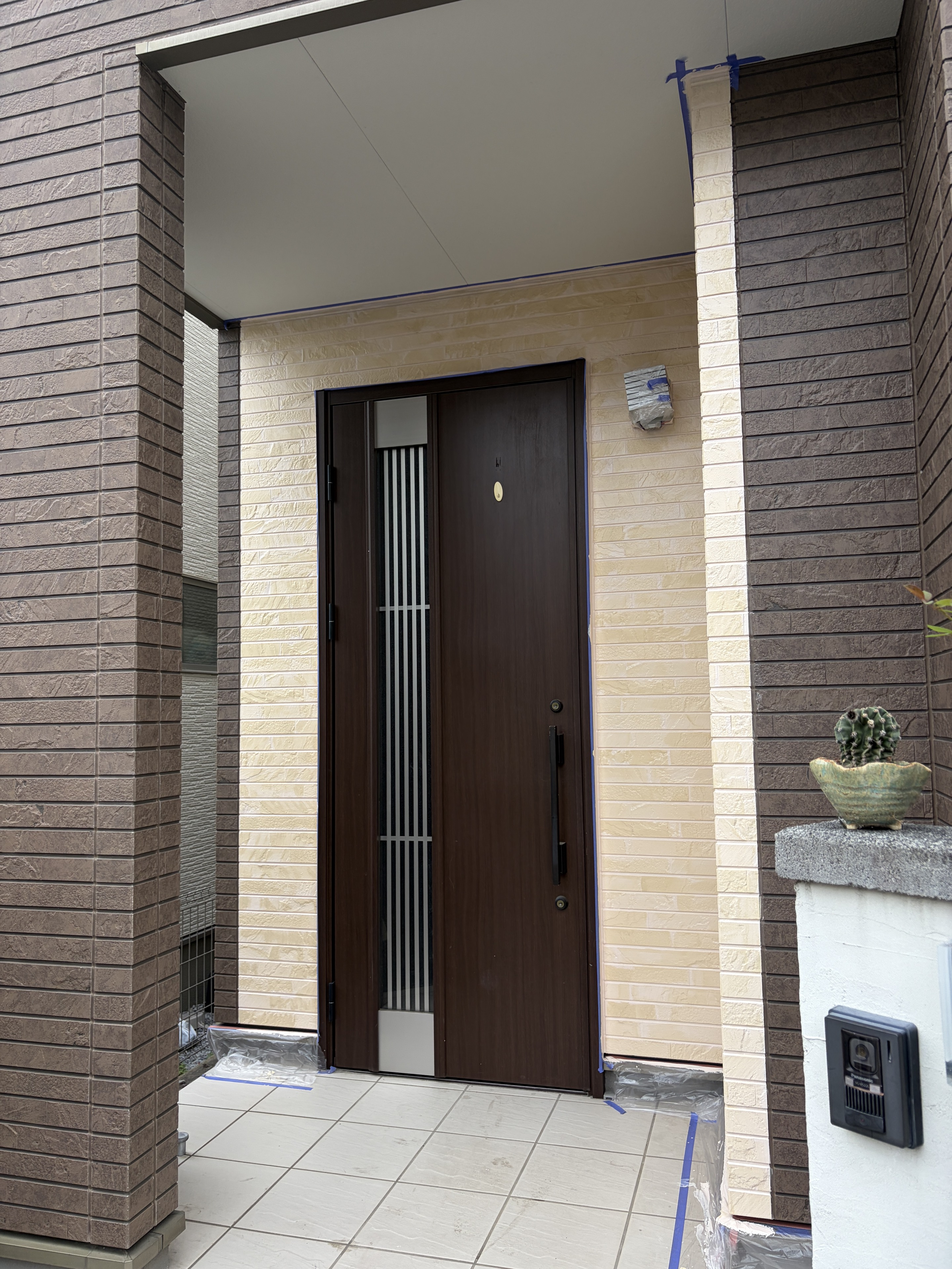
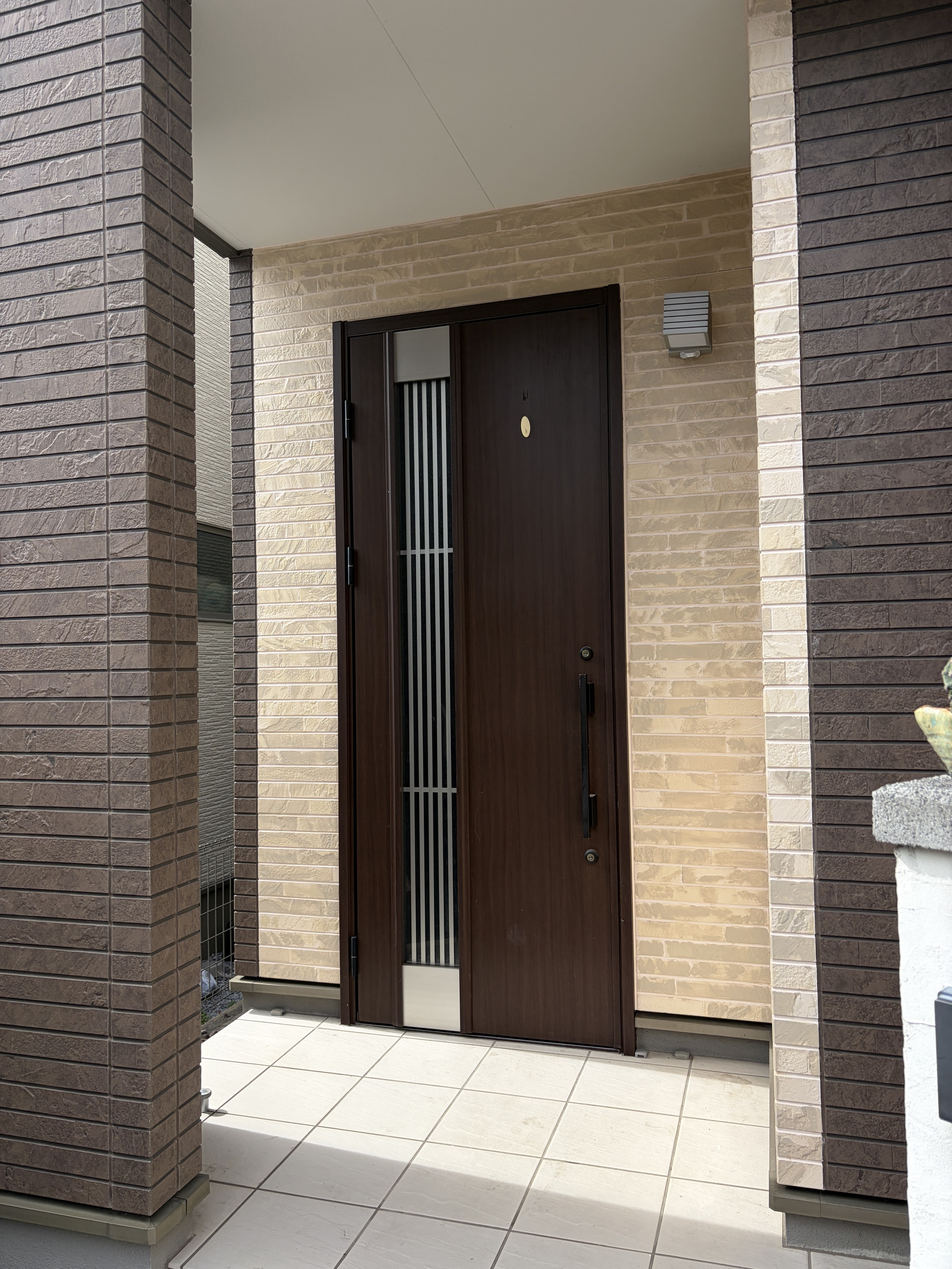
Update design painting blog cover image

diff --git a/blog/index.html b/blog/index.html
@@ -25,7 +25,7 @@
   <main><div class="wrap"><nav class="crumb" aria-label="パンくず"><a href="../index.html">ホーム</a> ＞ <span aria-current="page">ブログ</span></nav></div>
     <section class="blog-index-page"><div class="wrap"><div class="label">Blog</div><h1>おしらせ・現場ブログ</h1><p class="lead">現場で見てきたことと、住まいのメンテナンスに役立つ情報を掲載しています。</p>
       <div class="blog-filter" aria-label="カテゴリで絞り込む"><button type="button" data-blog-filter="all" aria-pressed="true">すべて</button><button type="button" data-blog-filter="DIY塗装" aria-pressed="false">DIY塗装</button><button type="button" data-blog-filter="お知らせ" aria-pressed="false">お知らせ</button><button type="button" data-blog-filter="現場ブログ" aria-pressed="false">現場ブログ</button><button type="button" data-blog-filter="注意喚起" aria-pressed="false">注意喚起</button><button type="button" data-blog-filter="地域活動" aria-pressed="false">地域活動</button><button type="button" data-blog-filter="施工事例" aria-pressed="false">施工事例</button></div><p class="blog-result-count" aria-live="polite"></p>
-      <div class="blog-index-grid">        <article class="blog-index-card" data-blog-category="DIY塗装"><a href="2026-08-17-entrance-design-painting-first-project/index.html"><img src="../assets/optimized/blog/thumb/blog/2026-08-17-entrance-design-painting-01.webp" alt="デザイン塗装の施工途中の玄関まわり" loading="lazy" decoding="async"><div class="blog-index-card-body"><div class="blog-meta"><time datetime="2026-08-17">2026.08.17</time><span>DIY塗装</span></div><h2>デザイン塗装の第一弾が完成しました</h2><p>おはようございます☀<br><br>【デザイン塗装】の第一弾が完成しました✨<br><br>以前は茶色系で落ち着いた雰囲気でしたが、どうしても凹んだ所なので少し暗い印象でした😅<br>そこで少し明るめなトーンでまとめて、岩を切り出したようなイメージで塗ってみました💪🏼<br><br>やってみてわかったのは、難しい💦<br>水分量で見える...</p><span>続きを読む</span></div></a></article>
+      <div class="blog-index-grid">        <article class="blog-index-card" data-blog-category="DIY塗装"><a href="2026-08-17-entrance-design-painting-first-project/index.html"><img src="../assets/optimized/blog/thumb/blog/2026-08-17-entrance-design-painting-01.webp" alt="デザイン塗装完成後の玄関まわり全体" loading="lazy" decoding="async"><div class="blog-index-card-body"><div class="blog-meta"><time datetime="2026-08-17">2026.08.17</time><span>DIY塗装</span></div><h2>デザイン塗装の第一弾が完成しました</h2><p>おはようございます☀<br><br>【デザイン塗装】の第一弾が完成しました✨<br><br>以前は茶色系で落ち着いた雰囲気でしたが、どうしても凹んだ所なので少し暗い印象でした😅<br>そこで少し明るめなトーンでまとめて、岩を切り出したようなイメージで塗ってみました💪🏼<br><br>やってみてわかったのは、難しい💦<br>水分量で見える...</p><span>続きを読む</span></div></a></article>
         <article class="blog-index-card" data-blog-category="DIY塗装"><a href="2026-08-16-entrance-design-painting/index.html"><img src="../assets/optimized/blog/thumb/blog/2026-08-16-entrance-design-painting.webp" alt="デザイン塗装を予定している玄関まわりの外壁" loading="lazy" decoding="async"><div class="blog-index-card-body"><div class="blog-meta"><time datetime="2026-08-16">2026.08.16</time><span>DIY塗装</span></div><h2>玄関まわりをデザイン塗装してみます</h2><p>おはようございます☀<br><br>ふと思いたったので、玄関周りを【デザイン塗装】してみたいと思います💪🏼<br><br>一色での塗りつぶしはイヤだ。<br>ダブルトーンでも物足りない。...</p><span>続きを読む</span></div></a></article>
         <article class="blog-index-card" data-blog-category="お知らせ"><a href="2026-08-15-website-improvements/index.html"><img src="../assets/optimized/blog/thumb/blog/2026-08-15-website-improvements.webp" alt="Real Makeホームページをスマートフォンで表示した画面" loading="lazy" decoding="async"><div class="blog-index-card-body"><div class="blog-meta"><time datetime="2026-08-15">2026.08.15</time><span>お知らせ</span></div><h2>Real Makeホームページをコツコツ改善しています</h2><p>おはようございます☀<br><br>今日は弊社のホームページについてのお知らせです✅<br>日頃から概算費用チェックや外壁カラーシミュレーターのことはお伝えしてきましたが、その他の施工事例やギャラリー、よくある質問などの項目もコツコツと改善を重ねて増やしてきました💪🏼<br><br>業者さんへ依頼しての制作ではなく、自分で...</p><span>続きを読む</span></div></a></article>
         <article class="blog-index-card" data-blog-category="お知らせ"><a href="2026-08-12-typhoon-strong-wind-home-check/index.html"><img src="../assets/optimized/blog/thumb/blog/2026-08-12-typhoon-strong-wind-home-check.webp" alt="台風・強風のあとに確認したいお住まいのチェックポイント" loading="lazy" decoding="async"><div class="blog-index-card-body"><div class="blog-meta"><time datetime="2026-08-12">2026.08.12</time><span>お知らせ</span></div><h2>台風・強風のあとに確認したいお住まいのチェックポイント</h2><p>おはようございます❗<br><br>昨日の夜は台風の影響ですごかったですね💦<br>強風・大雨のあとは、外から見える範囲でお住まいを一度確認してみてください✅<br><br>・雨樋が外れていないか<br>・屋根材や板金が浮いていないか<br>・外壁にひび割れや剥がれがないか<br>・ベランダに水が溜まっていないか<br>・窓まわりや室内に雨漏りの跡...</p><span>続きを読む</span></div></a></article>

diff --git a/blog/2026-08-17-entrance-design-painting-first-project/index.html b/blog/2026-08-17-entrance-design-painting-first-project/index.html
@@ -35,7 +35,7 @@
         <p>第二弾もすでに検討中🤭</p>
         <p>デザイン塗装に興味のある方はお気軽にお問い合わせください✨</p>
       </div>
-          <figure class="blog-article-image"><img src="../../assets/optimized/blog/full/blog/2026-08-17-entrance-design-painting-01.webp" alt="デザイン塗装の施工途中の玄関まわり" loading="lazy" decoding="async"></figure>
+          <figure class="blog-article-image"><img src="../../assets/optimized/blog/full/blog/2026-08-17-entrance-design-painting-01.webp" alt="デザイン塗装完成後の玄関まわり全体" loading="lazy" decoding="async"></figure>
           <figure class="blog-article-image"><img src="../../assets/optimized/blog/full/blog/2026-08-17-entrance-design-painting-02.webp" alt="デザイン塗装前の茶色系の玄関まわり" loading="lazy" decoding="async"></figure>
           <figure class="blog-article-image"><img src="../../assets/optimized/blog/full/blog/2026-08-17-entrance-design-painting-03.webp" alt="岩を切り出したような表情に仕上げたデザイン塗装のアップ" loading="lazy" decoding="async"></figure>
           <figure class="blog-article-image"><img src="../../assets/optimized/blog/full/blog/2026-08-17-entrance-design-painting-04.webp" alt="デザイン塗装前の玄関まわりの外壁" loading="lazy" decoding="async"></figure>

diff --git a/index.html b/index.html
@@ -2302,7 +2302,7 @@
         <div class="blog-list reveal-item reveal-delay-3 is-visible reveal-delay-0 reveal-delay-1 reveal-delay-2">
           <!-- BLOG-POSTS START -->
           <article class="blog-card blog-card-featured">
-            <img src="assets/optimized/blog/thumb/blog/2026-08-17-entrance-design-painting-01.webp" alt="デザイン塗装の施工途中の玄関まわり" loading="lazy" decoding="async">
+            <img src="assets/optimized/blog/thumb/blog/2026-08-17-entrance-design-painting-01.webp" alt="デザイン塗装完成後の玄関まわり全体" loading="lazy" decoding="async">
             <div class="blog-body">
               <div class="blog-meta"><time datetime="2026-08-17">2026.08.17</time><span>DIY塗装</span></div>
               <h3>デザイン塗装の第一弾が完成しました</h3><p>おはようございます☀<br><br>【デザイン塗装】の第一弾が完成しました✨<br><br>以前は茶色系で落ち着いた雰囲気でしたが、どうしても凹んだ所なので少し暗い印象でした😅<br>そこで少し明るめなトーンでまとめて、岩を切り出したようなイメージで塗ってみました💪🏼<br><br>やってみてわかったのは、難しい💦<br>水分量で見える...</p>
